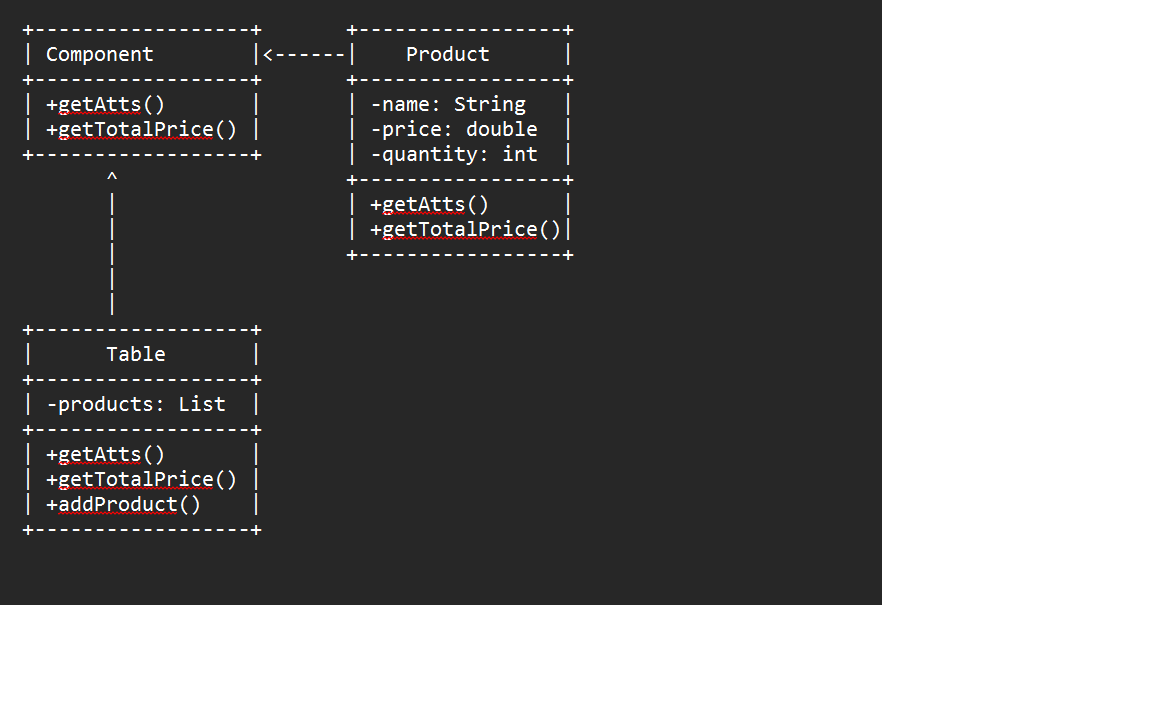
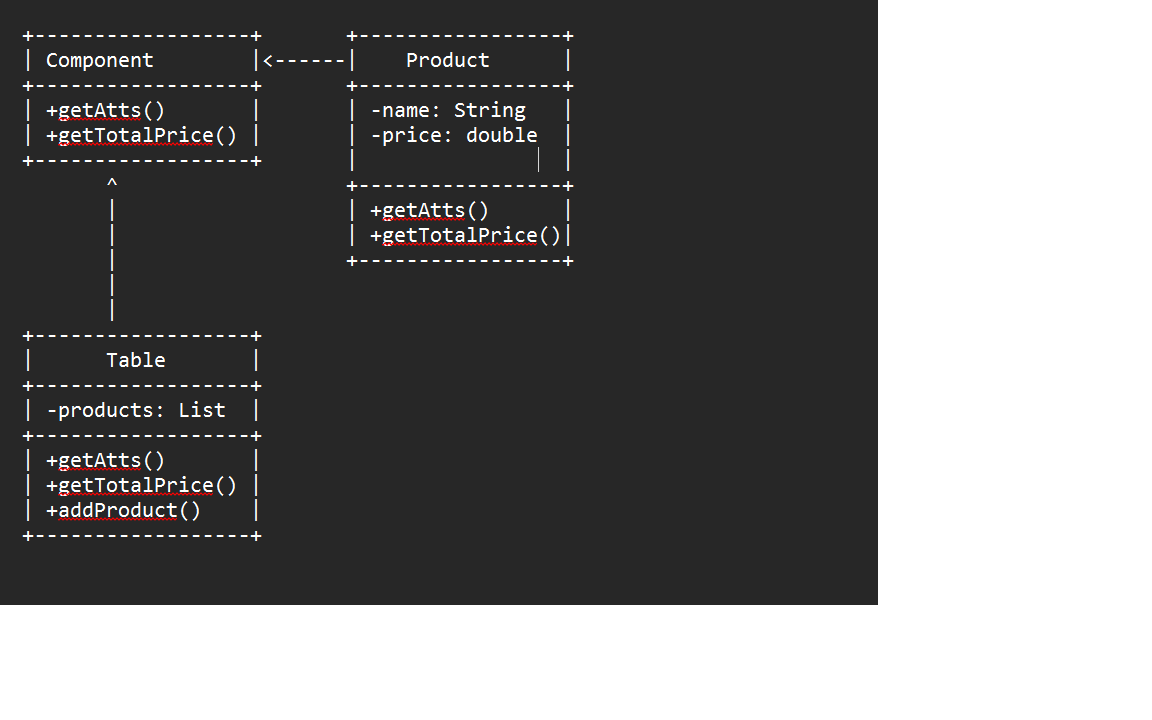
sua lai product va cap nhat minh chung

Changed region(s): [[0.0, 0.0306, 0.5, 0.3667], [0.0, 0.4583, 0.25, 0.7639], [0.75, 0.0, 0.7812, 0.825]]

diff --git a/BaiTap_DP_Composite/src/Main.java b/BaiTap_DP_Composite/src/Main.java
@@ -3,11 +3,15 @@ public class Main {
 
 
         Component table = new Table();
-        Component product1 = new Product("Chair", 10.333, 2);
-        Component product2 = new Product("Desk", 20, 1);
+        Component product1 = new Product("Chair", 20.111);
+        Component product2 = new Product("Desk", 10.9);
+        Component product3 = new Product("Coffee", 5.0);
+        Component product4 = new Product("Tea", 3.0);
 
         ((Table) table).addProduct(product1);
         ((Table) table).addProduct(product2);
+        ((Table) table).addProduct(product3);
+        ((Table) table).addProduct(product4);
 
         System.out.println(table.getAtts());
         System.out.println("Total Price: " + table.getTotalPrice());

diff --git a/BaiTap_DP_Composite/src/Product.java b/BaiTap_DP_Composite/src/Product.java
@@ -1,19 +1,17 @@
 public class Product implements Component{
     private String name;
     private double price;
-    private int quantity;
 
-    public Product(String name, double price, int quantity) {
+    public Product(String name, double price) {
         this.name = name;
         this.price = price;
-        this.quantity = quantity;
     }
 
     public String getAtts() {
-        return "Product: " + name + ", Price: " + price + ", Quantity: " + quantity;
+        return "Product: " + name + ", Price: " + price;
     }
 
     public double getTotalPrice() {
-        return price * quantity;
+        return price;
     }
 }
